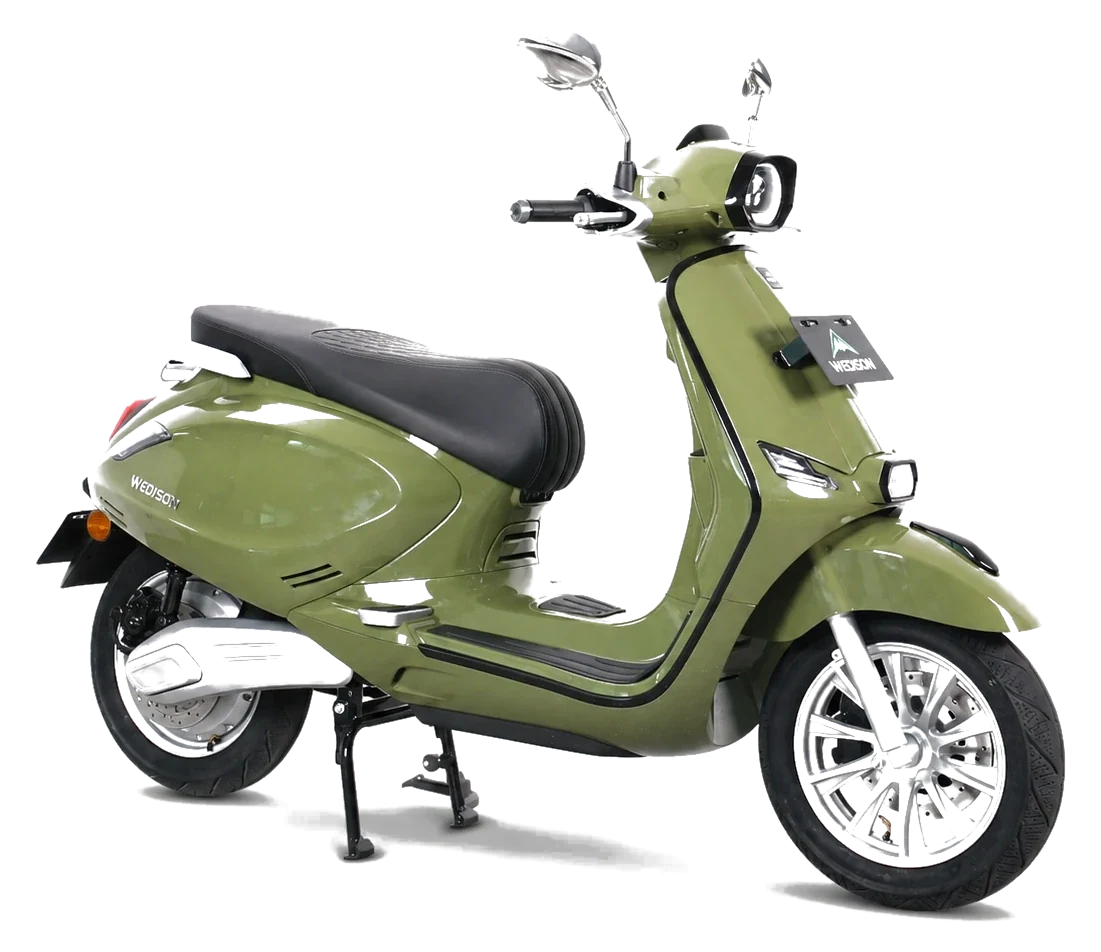
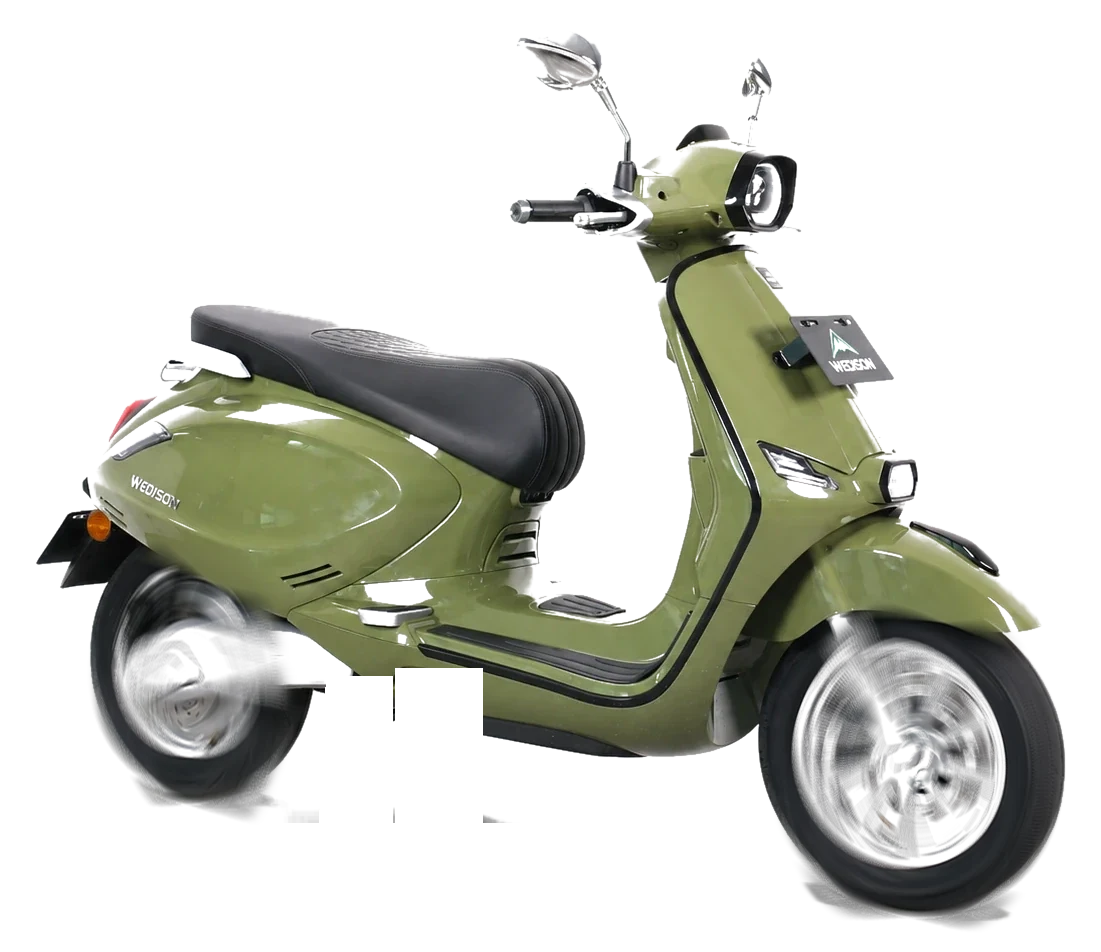
Ride-by interlude: smoother pass, no centre stand, spinning wheels, no pile-up
Cutouts now have the centre stand and floor shadow removed and the wheels spin-blurred. Riders are positioned against the full-bleed section so the parked position is always off screen (they used to stack at the left on wide displays), cross at constant speed with a soft moving shadow, and the next one enters as the previous leaves.

diff --git a/src/components/home/RideQuote.tsx b/src/components/home/RideQuote.tsx
@@ -7,8 +7,11 @@ import Image from "next/image";
  * JavaScript; under prefers-reduced-motion a single motorcycle stands
  * still in the middle. The same artwork is rendered to video for
  * Instagram from werigo-ink-animation/ride.html; keep the two in step.
- * Cutouts are the approved studio photos with the background removed
- * (public/media/fleet/<model>/cutout.webp).
+ *
+ * Cutouts are the approved studio photos with the background, floor
+ * shadow and centre stand removed and the wheels spin-blurred
+ * (public/media/fleet/<model>/cutout.webp). The riders sit directly in
+ * the full-bleed section so their parked position is always off screen.
  */
 
 const riders = [
@@ -20,7 +23,10 @@ const riders = [
 
 export function RideQuote() {
   return (
-    <section aria-label="Ride Bali on electric, the quiet way" className="relative overflow-hidden bg-white">
+    <section
+      aria-label="Ride Bali on electric, the quiet way"
+      className="ride-section relative overflow-hidden bg-white"
+    >
       <div className="mx-auto w-full max-w-[1400px] px-4 sm:px-6 lg:px-8 xl:px-10">
         <div className="ride-stage relative">
           <p className="absolute inset-0">
@@ -35,27 +41,27 @@ export function RideQuote() {
               way.
             </span>
           </p>
-
-          <div className="ride-road" aria-hidden="true" />
-          {riders.map((r, i) => (
-            <div
-              key={r.slug}
-              className="ride-rider"
-              aria-hidden="true"
-              style={{ "--k": `${i * 3}s` } as React.CSSProperties}
-            >
-              <Image
-                src={`/media/fleet/${r.slug}/cutout.webp`}
-                alt=""
-                width={r.width}
-                height={r.height}
-                sizes="(max-width: 640px) 45vw, 420px"
-                className="h-full w-auto"
-              />
-            </div>
-          ))}
         </div>
       </div>
+
+      <div className="ride-road" aria-hidden="true" />
+      {riders.map((r, i) => (
+        <div
+          key={r.slug}
+          className="ride-rider"
+          aria-hidden="true"
+          style={{ "--k": `${i * 3}s` } as React.CSSProperties}
+        >
+          <Image
+            src={`/media/fleet/${r.slug}/cutout.webp`}
+            alt=""
+            width={r.width}
+            height={r.height}
+            sizes="(max-width: 640px) 45vw, 420px"
+            className="h-full w-auto"
+          />
+        </div>
+      ))}
     </section>
   );
 }

diff --git a/src/app/globals.css b/src/app/globals.css
@@ -257,12 +257,17 @@ body {
 }
 
 /* ================= Ride-by interlude (RideQuote.tsx) ================= */
-/* The four Wedison models ride across the band one after another.
-   Period 12s, each rider owns a 3s slot and crosses in 2.64s; the bob
-   cycle (1s) divides the period so the loop never jumps. Reduced
+/* The four Wedison models ride across the full section width one after
+   another at constant speed. Period 12s: a rider enters every 3s and
+   takes 4.3s to cross, so the next is entering as the previous leaves.
+   Riders are positioned against the section (full bleed), never the
+   padded container, so the parked position is always off screen. The
+   bob cycle (1s) divides the period so the loop never jumps. Reduced
    motion parks the first motorcycle in the middle and hides the rest. */
 .ride-stage {
   height: clamp(420px, 60vw, 760px);
+}
+.ride-section {
   --ride-road: 66%;
   --ride-h: clamp(110px, 20vw, 280px);
 }
@@ -284,20 +289,30 @@ body {
   animation: ride-by 12s linear infinite;
   animation-delay: var(--k);
 }
+.ride-rider::after {
+  content: "";
+  position: absolute;
+  left: 8%;
+  right: 8%;
+  bottom: -2%;
+  height: 8%;
+  border-radius: 50%;
+  background: radial-gradient(ellipse at center, rgba(24, 35, 32, 0.22), rgba(24, 35, 32, 0) 70%);
+}
 .ride-rider img {
+  position: relative;
   height: 100%;
   width: auto;
-  transform-origin: 50% 100%;
-  animation: ride-bob 0.5s ease-in-out infinite alternate;
+  animation: ride-bob 1s ease-in-out infinite alternate;
 }
 @keyframes ride-by {
   0% { transform: translateX(-110%); }
-  22% { transform: translateX(100vw); }
-  22.001%, 100% { transform: translateX(-110%); }
+  36% { transform: translateX(100vw); }
+  36.001%, 100% { transform: translateX(-110%); }
 }
 @keyframes ride-bob {
-  from { transform: translateY(-2px) rotate(-0.6deg); }
-  to { transform: translateY(2px) rotate(0.4deg); }
+  from { transform: translateY(-1.5px); }
+  to { transform: translateY(1.5px); }
 }
 @media (prefers-reduced-motion: reduce) {
   .ride-rider,
